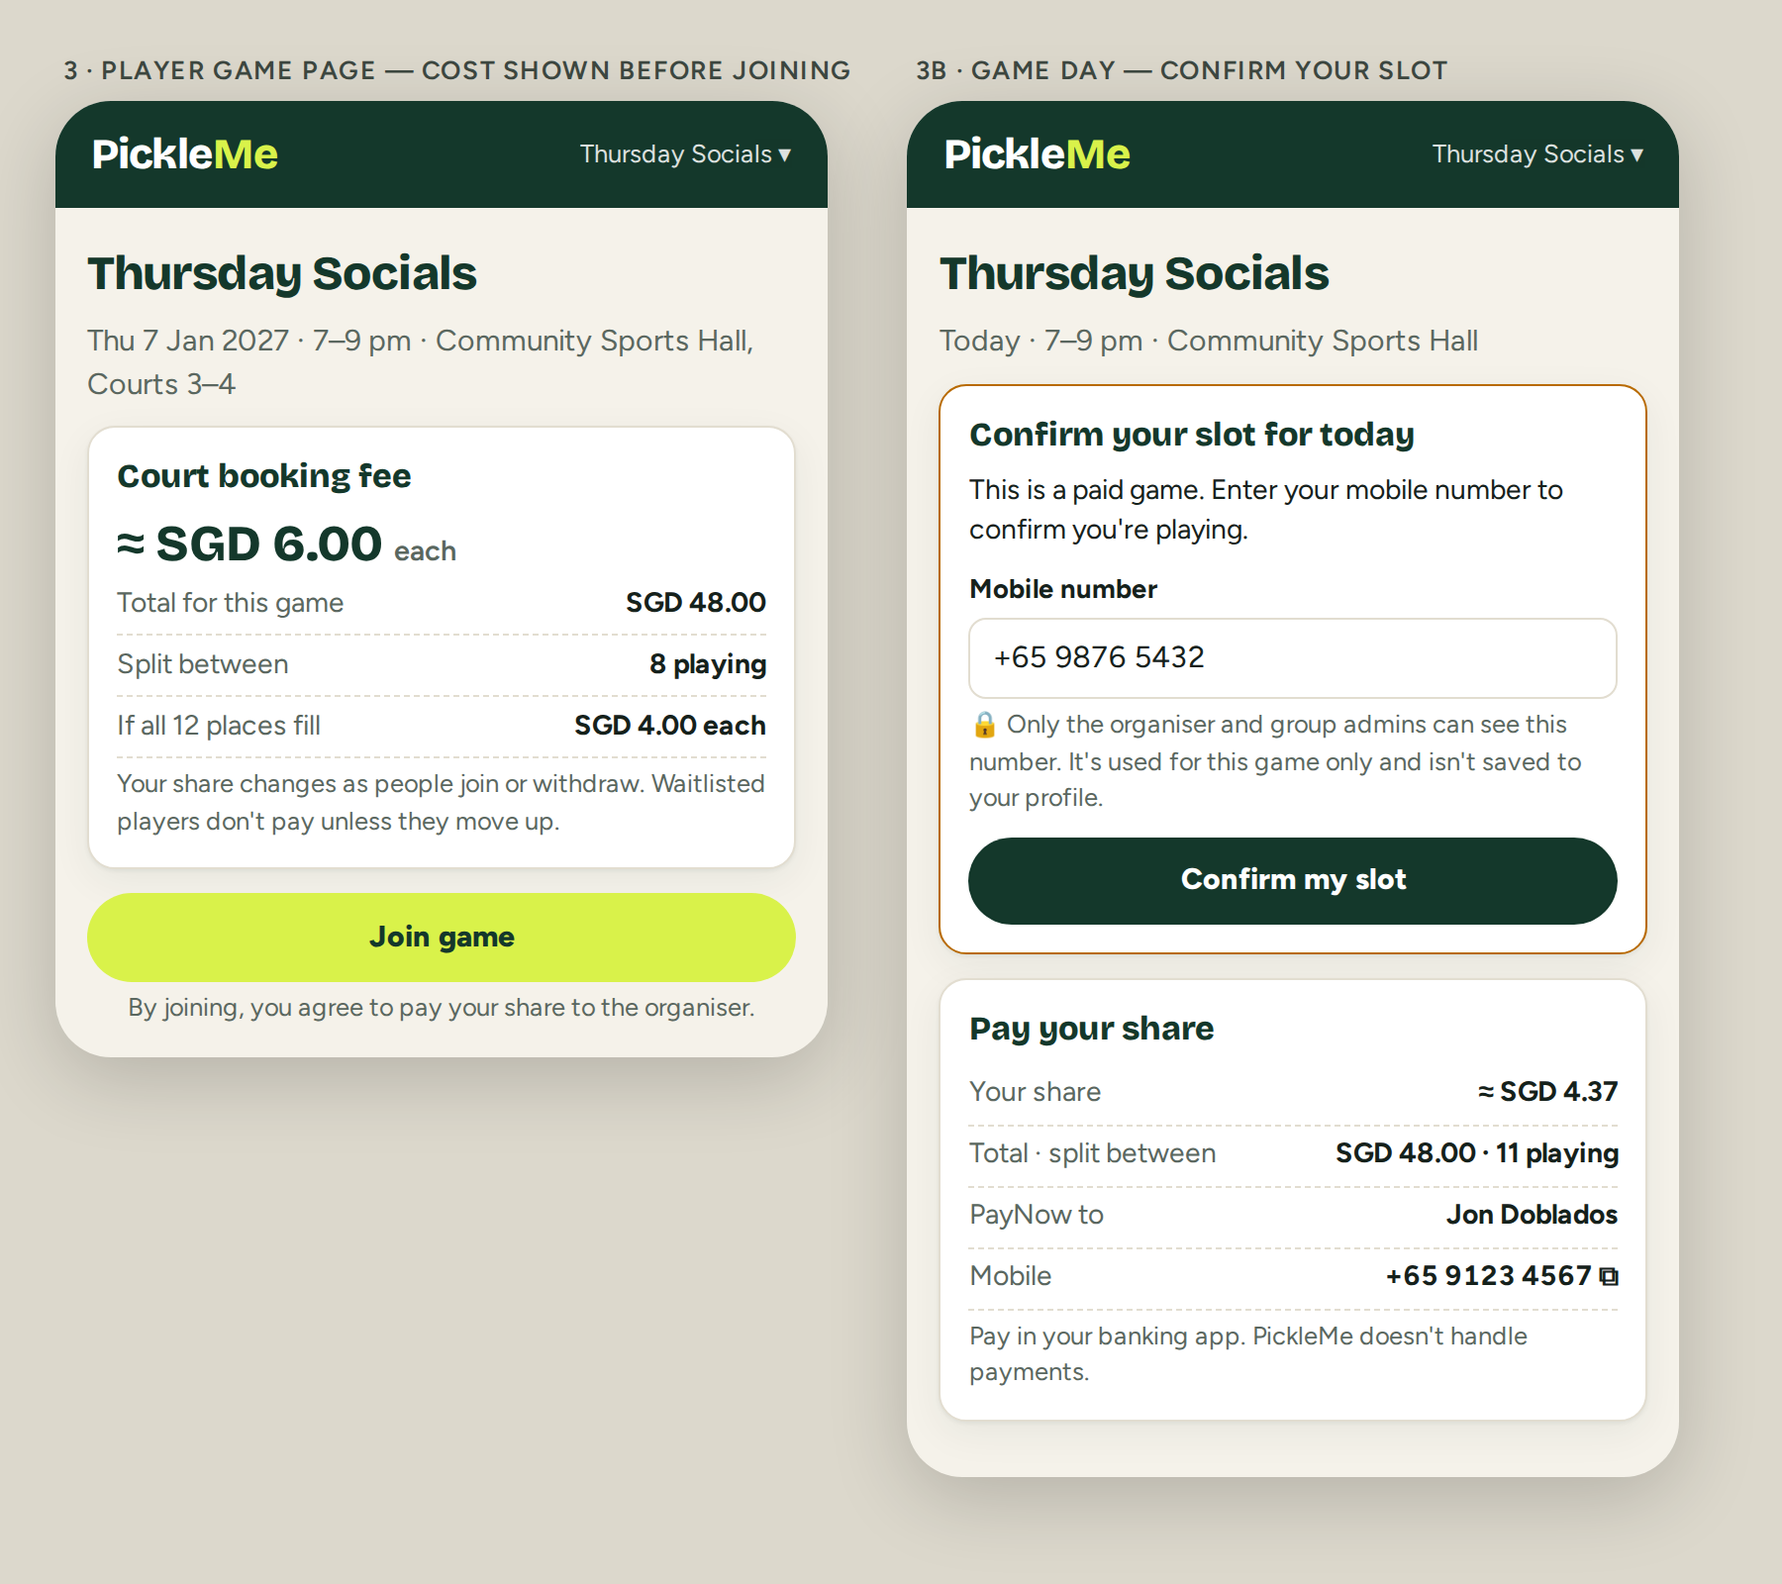
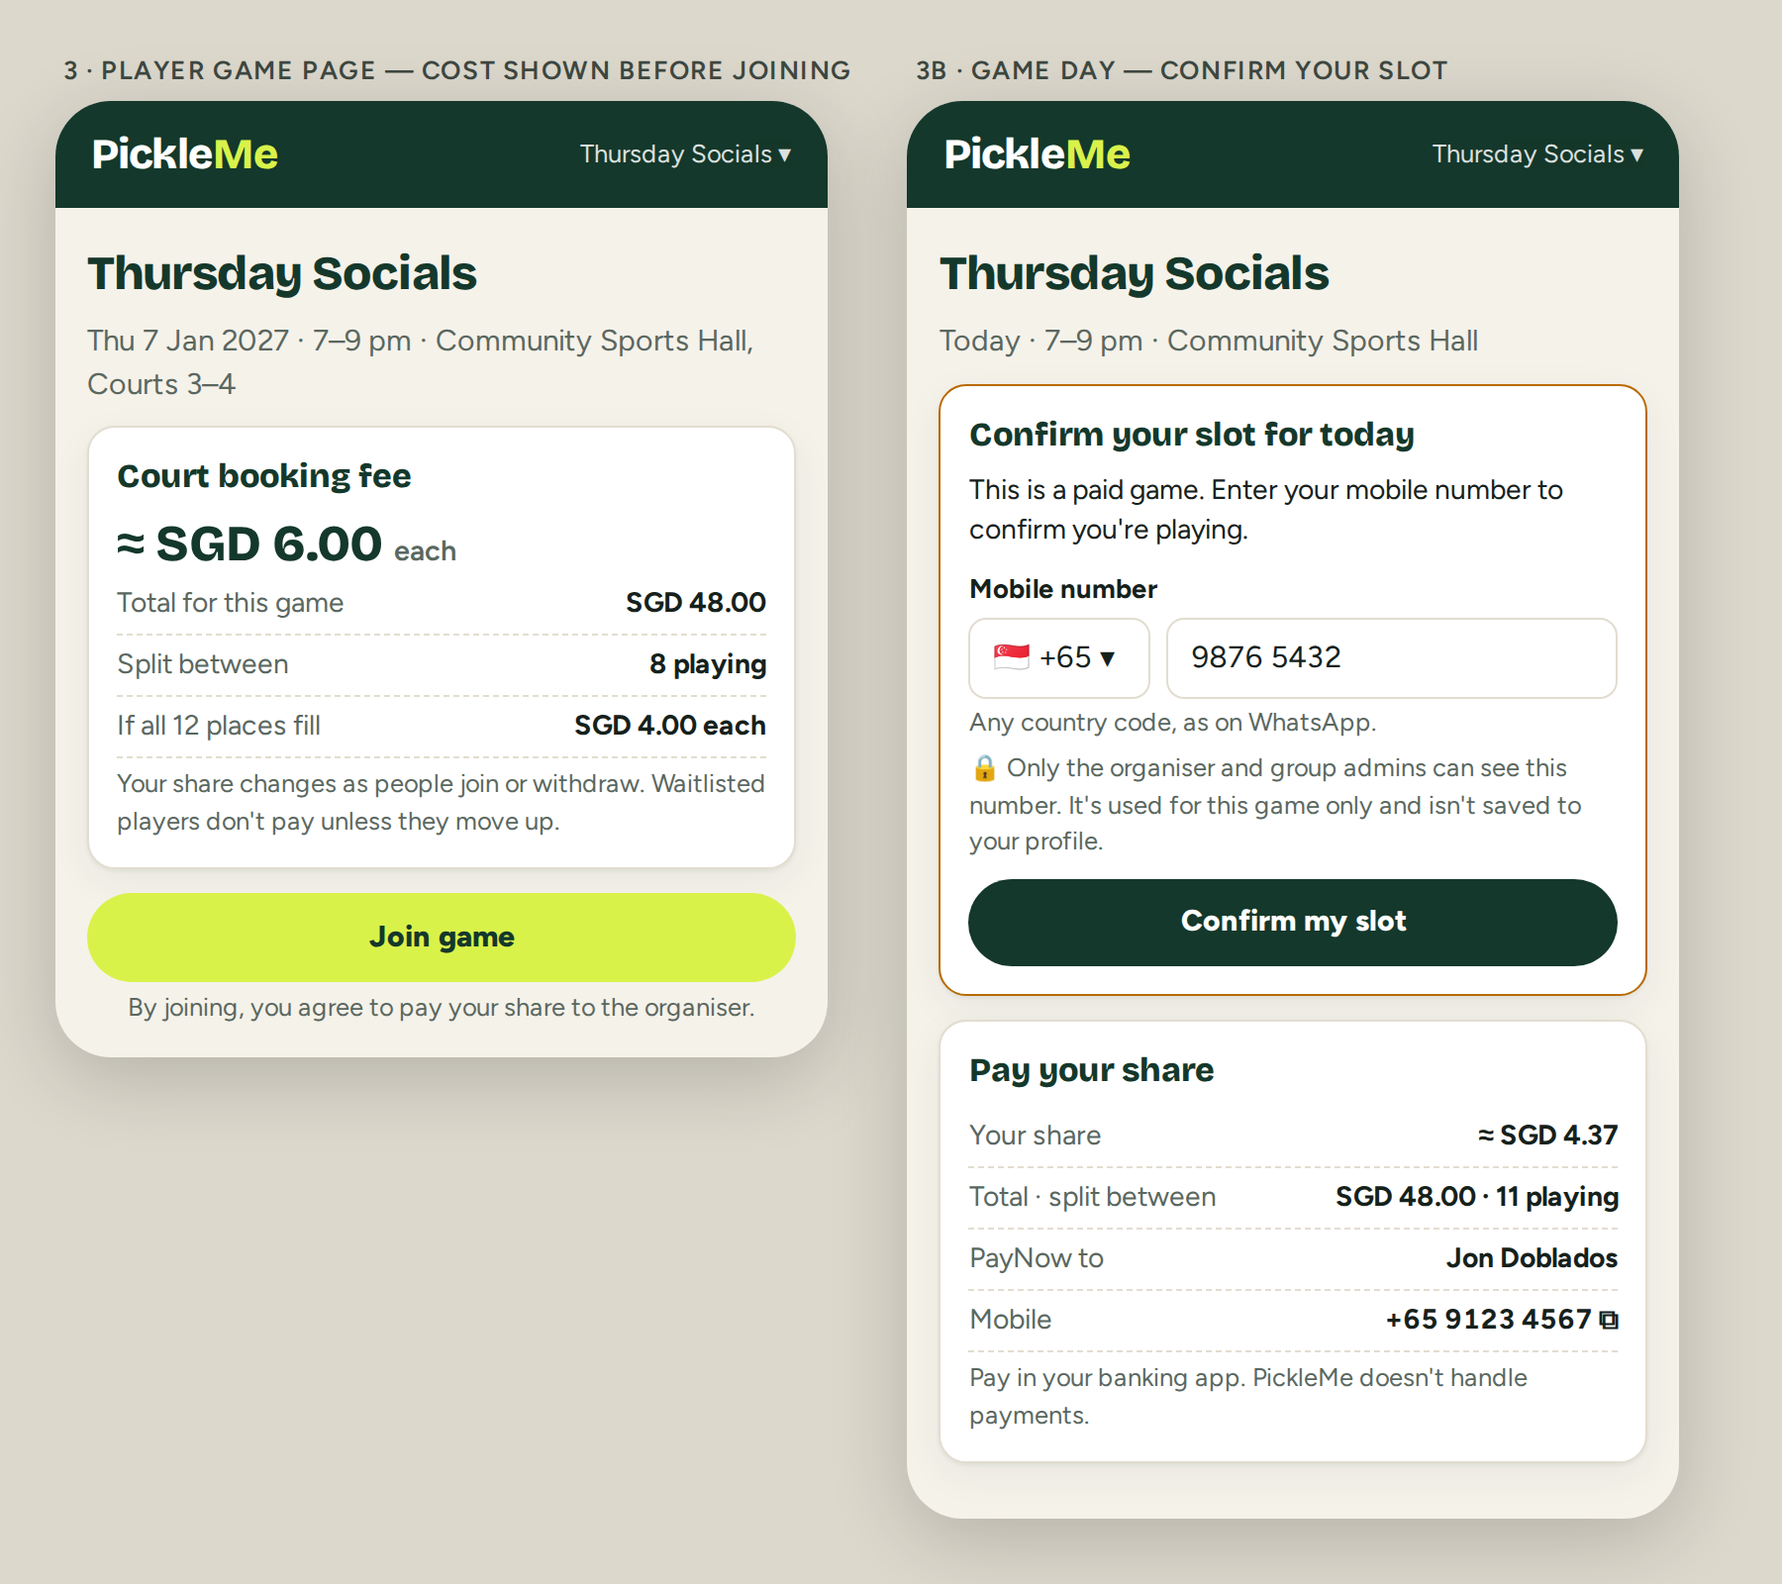
docs: FR-021 decisions confirmed
Final fee shared by everyone playing at the start except players marked Excused;
confirmation from 00:00 on the game date until the start; confirmation numbers
accept any country code (WhatsApp format); SGD only for now. Mockups updated.

Changed region(s): [[0.4978, 0.4062, 0.9644, 0.9688]]

diff --git a/docs/fr021-review/source/04-organiser-gameday.html b/docs/fr021-review/source/04-organiser-gameday.html
@@ -4,11 +4,11 @@
 <div class="card"><h2>Slot confirmations <span class="chip green">9 of 11</span></h2>
 <div class="pl"><span class="av">AL</span><div class="n">Alicia Lim<small>Confirmed 9:14 am</small></div><span class="mono">+65 9876 5432</span></div>
 <div class="pl"><span class="av">BT</span><div class="n">Ben Tan<small>Confirmed 11:02 am</small></div><span class="mono">+65 8123 0099</span></div>
-<div class="pl"><span class="av">CR</span><div class="n">Carlos Reyes<small>Confirmed 1:40 pm</small></div><span class="mono">+65 9001 2244</span></div>
+<div class="pl"><span class="av">CR</span><div class="n">Carlos Reyes<small>Confirmed 1:40 pm</small></div><span class="mono">+63 917 123 4567</span></div>
 <div class="pl"><span class="av">DW</span><div class="n">Diana Wong<small style="color:var(--amber)">Not confirmed yet</small></div><span class="chip amber">Pending</span></div>
 <div class="pl"><span class="av">EK</span><div class="n">Ethan Koh<small style="color:var(--amber)">Not confirmed yet</small></div><span class="chip amber">Pending</span></div>
 <div class="hint">+ 6 more confirmed. 🔒 Numbers are visible only to organisers and admins, and are deleted 30 days after the game.</div></div>
-<div class="note amber">Confirming a slot doesn't mark attendance or payment. Mark Present / No-show as usual after the game.</div>
+<div class="note amber">Confirming a slot doesn't mark attendance or payment. Mark Present / Excused / No-show as usual. The final share splits the fee among everyone playing at the start, except players marked Excused.</div>
 </div></div></div>
 <div><p class="cap">4b · Add cost later + shared message</p><div class="phone"><div class="top"><span class="wm">Pickle<b>Me</b></span><span class="grp">Thursday Socials ▾</span></div><div class="body">
 <div class="card"><h2>Court booking fee</h2><div class="hint" style="margin-top:0">This game has 8 players. Adding a fee shows a notice on the game for everyone who has already joined.</div>

diff --git a/docs/fr021-review/source/03-player-game.html b/docs/fr021-review/source/03-player-game.html
@@ -14,7 +14,7 @@
 <h1>Thursday Socials</h1><div class="s" style="color:var(--muted);margin-bottom:10px">Today · 7–9 pm · Community Sports Hall</div>
 <div class="card" style="border-color:var(--amber)"><h2>Confirm your slot for today</h2>
 <div style="font-size:.88rem">This is a paid game. Enter your mobile number to confirm you're playing.</div>
-<label>Mobile number</label><div class="in mono">+65 9876 5432</div>
+<label>Mobile number</label><div class="row"><div class="in" style="flex:0 0 92px">🇸🇬 +65 ▾</div><div class="in mono">9876 5432</div></div><div class="hint" style="margin-top:.2rem">Any country code, as on WhatsApp.</div>
 <div class="hint">🔒 Only the organiser and group admins can see this number. It's used for this game only and isn't saved to your profile.</div>
 <div class="btn">Confirm my slot</div></div>
 <div class="card"><h2>Pay your share</h2>

diff --git a/feature-requests/FR-021-scheduled-games-fees.md b/feature-requests/FR-021-scheduled-games-fees.md
@@ -1,6 +1,6 @@
 # FR-021 — Scheduled game visibility, court booking fees and game-day slot confirmation
 
-- Status: Requested. Plan and mockups ready for review (2026-11-13); no code or database changes yet.
+- Status: Requested. Decisions confirmed 2026-11-13; plan and mockups ready. No code or database changes yet.
 - Requested: 2026-11-13 by Jon, for an organiser who has booked courts for every game in Q1 2027 and wants to enter
   all of them now.
 - Plan: [docs/fr021-plan.md](../docs/fr021-plan.md). Mockups: [docs/fr021-review/](../docs/fr021-review/).
@@ -43,10 +43,14 @@ Court and facility prebooking is a separate idea (FR-020, drafted on branch `doc
 - Fields:
   - **Total fee for this game**, in SGD by default (0.01–9,999.99).
   - **Players pay by PayNow to:** the organiser (default; organiser enters their PayNow mobile number) or
-    **another mobile number** (name and number), e.g. whoever booked the courts.
-- **Per-player share** = total fee ÷ current playing members (waitlisted players excluded), rounded up to the cent.
-  With no playing members yet: "per player shown after sign-ups". The game page also shows the share if every place
-  fills.
+    **another mobile number** (name and number), e.g. whoever booked the courts. Because PayNow uses Singapore
+    numbers, the payee number is a `+65` mobile.
+- **Estimated share** (before and during the game) = total fee ÷ current playing members (waitlisted players
+  excluded), rounded up to the cent. With no playing members yet: "per player shown after sign-ups". The game page
+  also shows the share if every place fills.
+- **Final share** = total fee ÷ members on the playing list at the start time, minus those the organiser marks
+  **Excused** (FR-007). No-shows who aren't excused still pay. The share is labelled "final" once attendance has been
+  marked for everyone on the playing list; until then it stays an estimate.
 - The payee name and PayNow number are shown only to members playing in that game, and to organisers and admins.
   PickleMe doesn't handle payments.
 
@@ -66,8 +70,10 @@ When a fee is added or changed after people have joined, the game page shows the
 
 ### 4. Game-day slot confirmation (paid games only)
 
-- On the game date (from 00:00 in the group's time zone until the game starts), each playing member sees
+- On the game date, from 00:00 in the group's time zone until the start time, each playing member sees
   **Confirm your slot for today** and enters a mobile number.
+- Any country code is accepted, in the same international format WhatsApp uses: a country-code picker (default
+  `+65`) and the number, stored as `+<country code><number>` (8–15 digits in total).
 - The number is stored for that game only. It isn't saved to the profile or reused for other games.
 - Only the group's organisers and admins can see it. It's not shown in member lists, rosters, shared messages,
   images or the activity log, and it's deleted 30 days after the game.
@@ -75,15 +81,15 @@ When a fee is added or changed after people have joined, the game page shows the
 - Confirming a slot doesn't mark attendance or payment. Organisers still mark Present / No-show (FR-007).
   Unconfirmed players aren't removed automatically.
 
-## Proposed defaults to confirm before build
+## Decisions (2026-11-13)
 
-| # | Question | Proposed default |
+| # | Question | Decision |
 |---|---|---|
-| 1 | Who shares the final fee? | All playing members at the start time, including no-shows. Organisers can mention exceptions in the game notes. |
-| 2 | Confirmation window | 00:00 on the game date until the start time; the organiser can still record confirmation afterwards. |
+| 1 | Who shares the final fee? | Everyone on the playing list at the start time, including no-shows, except players marked Excused. |
+| 2 | Confirmation window | From 00:00 on the game date until the start time. |
 | 3 | Telling players about a new or changed fee | In-app notice on the game page; no email in the first release. |
-| 4 | Retention of confirmation numbers | Deleted 30 days after the game. |
-| 5 | Currency | SGD only in the first release, stored with a currency code so others can be added. |
+| 4 | Confirmation numbers | Visible only to organisers and admins; any country code in WhatsApp's international format; deleted 30 days after the game. |
+| 5 | Currency | SGD only for now, stored with a currency code so others can be added later. |
 
 ## Acceptance criteria
 
@@ -93,7 +99,10 @@ When a fee is added or changed after people have joined, the game page shows the
 3. Organisers and admins can see, edit, cancel and delete hidden games.
 4. A fee can be added to an existing game; the share updates as players join, withdraw or move up from the waitlist.
 5. The cost line appears on every surface listed in section 3; payee and confirmation numbers never do.
-6. On the game day, a playing member of a paid game can confirm with a valid Singapore mobile number; a waitlisted
-   player, a non-member or a player in a free game can't.
-7. Only organisers and admins of that group can read confirmation numbers; numbers are deleted 30 days after the game.
-8. Privacy policy and FAQ are updated before release.
+6. Between 00:00 on the game date and the start time, a playing member of a paid game can confirm with a mobile
+   number with any country code (e.g. `+65 9876 5432`, `+63 917 123 4567`); a waitlisted player, a non-member or a
+   player in a free game can't, and confirmation closes at the start time.
+7. The final share divides the fee among players on the playing list at the start time, excluding those marked
+   Excused; unexcused no-shows are included.
+8. Only organisers and admins of that group can read confirmation numbers; numbers are deleted 30 days after the game.
+9. Privacy policy and FAQ are updated before release.

diff --git a/docs/fr021-plan.md b/docs/fr021-plan.md
@@ -1,6 +1,6 @@
 # FR-021 implementation plan — scheduled visibility, court booking fees, game-day slot confirmation
 
-Status: draft for review (2026-11-13). No code or database changes until Jon approves.
+Status: decisions confirmed 2026-11-13 (see the spec). No code or database changes until Jon approves the build.
 Spec: [feature-requests/FR-021-scheduled-games-fees.md](../feature-requests/FR-021-scheduled-games-fees.md).
 Mockups: [docs/fr021-review/](fr021-review/) (PNG, with HTML sources in `source/`).
 
@@ -27,21 +27,24 @@ Courts and facilities are booked outside PickleMe. This plan doesn't add booking
 
 - `games.fee_total_cents int` (null = free, 1–999,999), `games.fee_currency char(3) default 'SGD'`, `games.fee_updated_at`.
 - New table `game_payees` (one row per paid game): `payee_kind` (`organiser` | `nominated`), `payee_name`,
-  `payee_mobile` (Singapore format `+65` 8 digits starting 8 or 9). RLS: readable by organisers/admins and by
+  `payee_mobile` (`+65` mobile, since PayNow uses Singapore numbers). RLS: readable by organisers/admins and by
   members with an active playing registration in that game; writable by organisers/admins.
 - `set_game_fee(game_id, total_cents, currency, payee_kind, payee_name, payee_mobile)` — organiser/admin only; `null`
   total removes the fee. Writes an activity-log entry with the old and new totals (no numbers).
 - `get_game` / `list_games` return `fee_total_cents`, `fee_currency`, `playing_count`, `share_cents` (rounded up to
   the cent), `share_if_full_cents`, and `fee_changed_since_join` for the caller.
+- **Final share:** `games.playing_at_start` snapshots the playing list when the game starts (set by the existing
+  attendance trigger or on first read after `starts_at`). Final share = total ÷ (snapshot − players marked `excused`
+  in `game_attendance`); unexcused no-shows count. `share_is_final` is true once every snapshot player is marked.
 
 ### Slot confirmation
 
 - New table `slot_confirmations` (`game_id`, `user_id`, `mobile`, `confirmed_at`, `recorded_by`), unique per game and user.
+  `mobile` is stored in international (E.164) format, `+` then 8–15 digits, any country code, as used by WhatsApp.
   RLS: select for organisers/admins of the group only. Players can't read rows, including their own; the API tells
   them only whether they've confirmed.
 - `confirm_slot(game_id, mobile)` — allowed only if the game has a fee, the caller is playing (not waitlisted), and
-  it's the game date in the group's time zone and before the start time. Organisers can record a confirmation for a
-  player at any time on the game day.
+  the time is between 00:00 on the game date (group time zone) and the start time.
 - `list_slot_confirmations(game_id)` — organiser/admin only; returns confirmed and pending playing members.
 - Weekly `pg_cron` job (same pattern as avatar cleanup) deletes confirmations 30 days after the game ends.
 - Activity log records "Confirmed slot" without the number.
@@ -57,7 +60,8 @@ Courts and facilities are booked outside PickleMe. This plan doesn't add booking
 | `RosterImageShare.tsx`, WhatsApp text | One cost line; never payee or confirmation numbers. |
 | `InfoPages.tsx` | Privacy policy (mobile numbers: purpose, who sees them, 30-day deletion) and FAQ (scheduling, fees, confirming). |
 
-Shared helpers in `src/lib/fees.js` (share calculation, SGD formatting, Singapore mobile validation) with tests.
+Shared helpers in `src/lib/fees.js` (estimated and final share, SGD formatting, international mobile validation with a
+country-code picker defaulting to `+65`, and the `+65` PayNow payee check) with tests.
 
 ## 3. Emails
 
@@ -71,15 +75,17 @@ Shared helpers in `src/lib/fees.js` (share calculation, SGD formatting, Singapor
   - the game becomes visible at `visible_from` with no action;
   - changing `starts_at` moves `visible_from`;
   - fee and share maths (0 players, waitlist excluded, rounding up, promotion from the waitlist);
+  - final share: excused players excluded, unexcused no-shows included, late sign-ups after the start not in the snapshot;
   - payee visible to playing members only;
-  - confirmation rules (date window, paid games only, playing only) and organiser-only reads;
+  - confirmation rules (00:00 to start time, paid games only, playing only), numbers with various country codes,
+    and organiser-only reads;
   - 30-day deletion.
 - `tests/fees.test.mjs` for helpers; roster-image test with a cost line; review harness for the new cards.
 - Regression: existing acceptance suite passes for free, visible games.
 
 ## 5. Rollout
 
-1. Jon reviews this plan and the mockups and confirms the proposed defaults.
+1. Decisions confirmed 2026-11-13. Jon approves the build.
 2. Branch `feature/fr021-scheduled-games-fees`; migration and tests first, then UI.
 3. Draft PR with screenshots; Jon reviews before merge.
 4. Apply the migration to production, deploy, and check on a real phone (hidden game, fee lines, WhatsApp text,

diff --git a/feature-requests.md b/feature-requests.md
@@ -30,7 +30,7 @@ Status key: **Requested** · **In progress** · **Implemented** · **Declined**
 | FR-017 | Hourly weather forecasts for game venues | Implemented (v0.11.0, live) | 2026-11-05 | 2026-11-09 |
 | FR-018 | Roster image with avatar circles | Implemented (v0.12.0) | 2026-11-09 | 2026-11-09 |
 | FR-019 | Required cancellation reason, shown as a note from the organiser | Implemented (v0.13.0, live) | 2026-11-10 | 2026-11-10 |
-| FR-021 | Scheduled game visibility, court booking fees and game-day slot confirmation | Requested (plan and mockups for review) | 2026-11-13 | — |
+| FR-021 | Scheduled game visibility, court booking fees and game-day slot confirmation | Requested (decisions confirmed; plan and mockups ready) | 2026-11-13 | — |
 
 ## Details
 
@@ -225,7 +225,7 @@ Status key: **Requested** · **In progress** · **Implemented** · **Declined**
 - **Details:** [feature-requests/FR-019-cancel-reasons.md](feature-requests/FR-019-cancel-reasons.md).
 
 ### FR-021 — Scheduled game visibility, court booking fees and game-day slot confirmation
-- **Status:** Requested. Plan and mockups ready for review (2026-11-13); no code or database changes yet.
+- **Status:** Requested. Decisions confirmed 2026-11-13; plan and mockups ready. No code or database changes yet.
 - **Requested:** 2026-11-13 by Jon, for an organiser entering all of her Q1 2027 games in advance. Courts are booked
   outside PickleMe; FR-020 (court and facility prebooking, drafted on a separate branch) is not part of this.
 - **Description:** When creating or editing a game, organisers choose when players can see it: **Visible now**
@@ -235,8 +235,9 @@ Status key: **Requested** · **In progress** · **Implemented** · **Declined**
   page, shared preview, WhatsApp message, roster image, promotion emails) it shows the total and the per-player share
   based on current playing members. On the game day, players in paid games confirm their slot with a mobile number that
   only organisers and admins can see, stored for that game only.
-- **Proposed defaults to confirm:** final fee shared by all playing members at the start time; confirmation window from
-  00:00 on the game date until the start; in-app notice (no email) when a fee is added or changed; confirmation numbers
-  deleted 30 days after the game.
+- **Decisions (2026-11-13):** the final fee is shared by everyone on the playing list at the start time, including
+  no-shows, except players marked Excused; players confirm from 00:00 on the game date until the start time; an in-app
+  notice (no email) when a fee is added or changed; confirmation numbers take any country code (WhatsApp international
+  format), are visible only to organisers and admins, and are deleted 30 days after the game; SGD only for now.
 - **Details:** [feature-requests/FR-021-scheduled-games-fees.md](feature-requests/FR-021-scheduled-games-fees.md),
   [docs/fr021-plan.md](docs/fr021-plan.md), mockups in [docs/fr021-review/](docs/fr021-review/).
